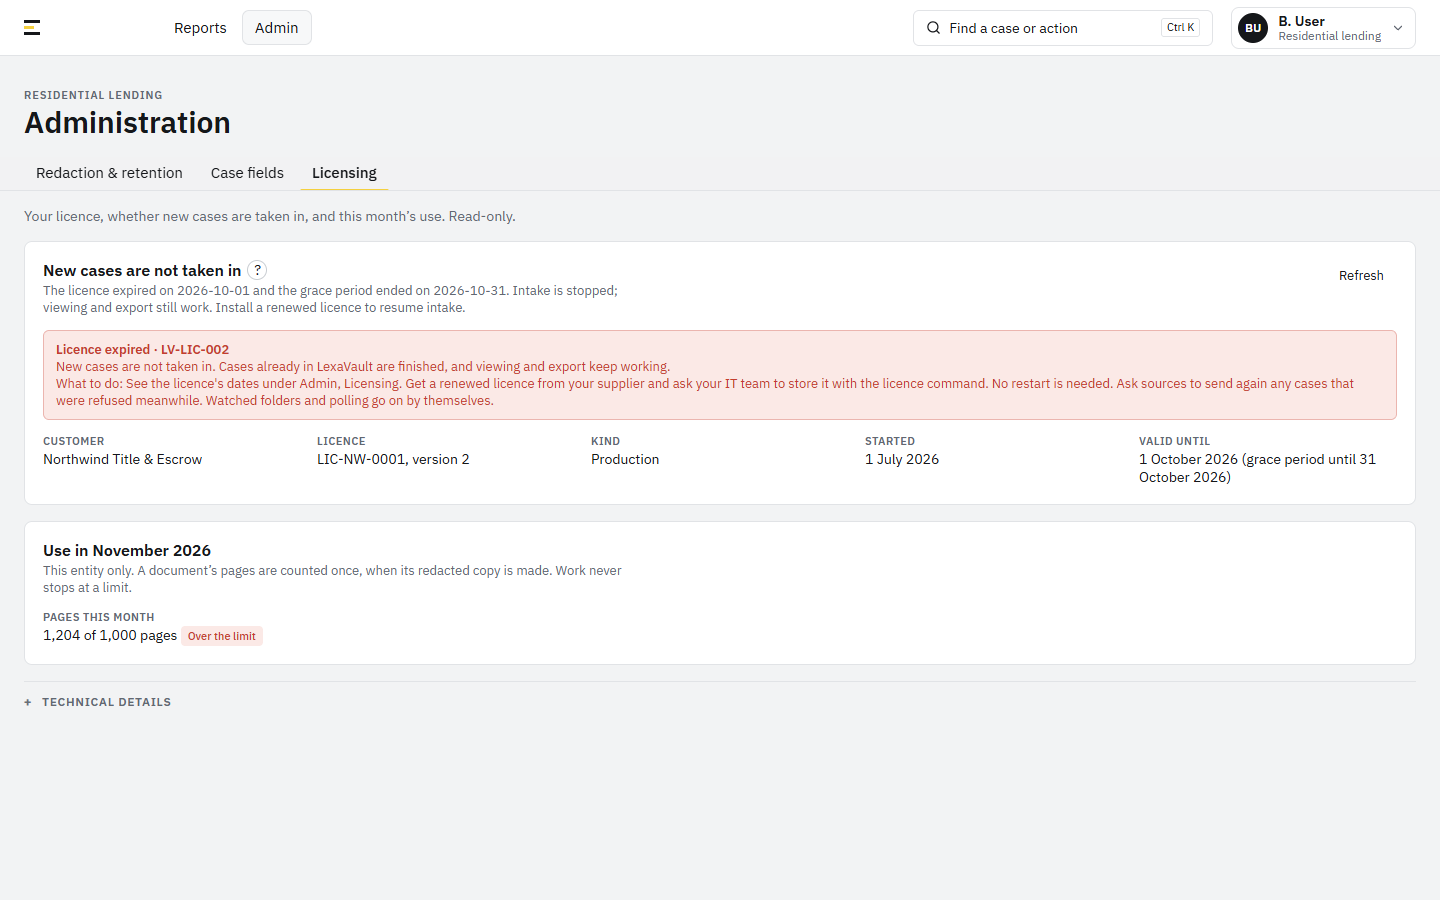
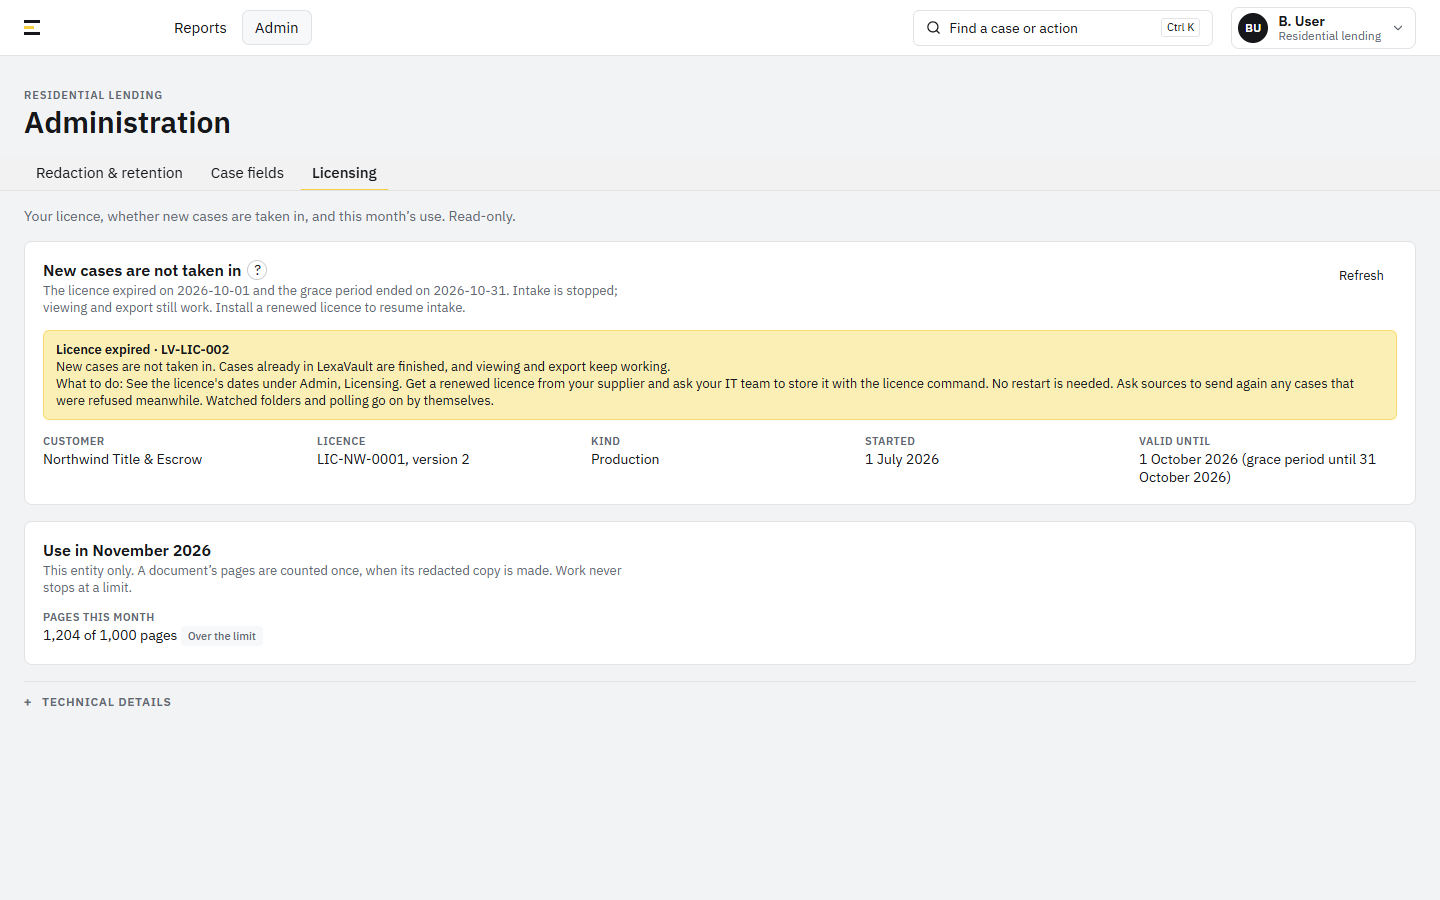
fix(ui,api): the licence notice's contrast; the sign-in test answer compiles with what to do

Changed region(s): [[0.0312, 0.3422, 0.9688, 0.4667], [0.125, 0.6844, 0.1875, 0.7156]]

diff --git a/frontend/securedoc-ui/src/studio/admin/LicensingArea.tsx b/frontend/securedoc-ui/src/studio/admin/LicensingArea.tsx
@@ -6,7 +6,7 @@ import { Notice } from '../atoms';
 import { whatToDo } from '../lvCodes';
 import { Loading } from './shared';
 import { HelpTip } from './HelpTip';
-import { allowanceText, dayText, levelTone, licenceKind, licenceTerm, licenceTitle, monthText } from './licensingRules';
+import { allowanceText, dayText, licenceKind, licenceTerm, licenceTitle, monthText } from './licensingRules';
 
 /**
  * Admin › Licensing (task 0057, Business Admin): the licence in force and this month's use of this entity. Read-only: a
@@ -30,14 +30,14 @@ export default function LicensingArea() {
         </header>
 
         {data.stopped && (
-          <Notice tone="danger">
+          <Notice tone="mark">
             <strong>{data.stopped.title} · {data.stopped.code}</strong>
             <br />New cases are not taken in. Cases already in LexaVault are finished, and viewing and export keep working.
             <br />What to do: {whatToDo(data.stopped.code)}
           </Notice>
         )}
         {l?.testEnvironment && <Notice>Test environment. This licence is not for production use: every redacted copy is marked “TEST – NOT FOR PRODUCTION USE”, and pages are never billed.</Notice>}
-        {l?.clockMessage && <Notice tone="danger">{l.clockMessage}</Notice>}
+        {l?.clockMessage && <Notice tone="mark">{l.clockMessage}</Notice>}
 
         {l && (
           <dl className="cf-ad-facts">
@@ -65,7 +65,7 @@ export default function LicensingArea() {
               return (
                 <div key={a.type}>
                   <dt>{text.name}</dt>
-                  <dd>{text.use} <span className="cf-ad-tag" data-tone={levelTone(a.level)}>{text.level}</span></dd>
+                  <dd>{text.use} <span className="cf-ad-tag">{text.level}</span></dd>
                 </div>
               );
             })}

diff --git a/frontend/securedoc-ui/src/studio/admin/licensingRules.test.ts b/frontend/securedoc-ui/src/studio/admin/licensingRules.test.ts
@@ -1,6 +1,6 @@
 import assert from 'node:assert/strict';
 import test from 'node:test';
-import { allowanceText, dayText, levelTone, licenceKind, licenceTerm, licenceTitle, monthText, type LicenceShown } from './licensingRules.ts';
+import { allowanceText, dayText, licenceKind, licenceTerm, licenceTitle, monthText, type LicenceShown } from './licensingRules.ts';
 
 const base: LicenceShown = { licenceId: 'LIC-1', version: 1, customer: 'C', type: 'SUBSCRIPTION', kind: 'PRODUCTION', testEnvironment: false, state: 'VALID', message: '', startsOn: '2026-01-01', expiresOn: '2026-06-30', daysUntilExpiry: 90, graceEndsOn: '2026-07-30' };
 
@@ -28,6 +28,4 @@ test('the term, its last days and its grace', () => {
 test('use against the licence', () => {
   assert.deepEqual(allowanceText({ type: 'PAGES_PER_MONTH', unit: 'pages', used: 1204, limit: 1000, level: 'OVER_LIMIT' }), { name: 'Pages this month', use: '1,204 of 1,000 pages', level: 'Over the limit' });
   assert.equal(allowanceText({ type: 'PAGES_PER_MONTH', unit: 'pages', used: 3, limit: 0, level: 'OVER_LIMIT' }).level, 'Not in the licence');
-  assert.equal(levelTone('AT_LIMIT'), 'danger');
-  assert.equal(levelTone('WITHIN'), undefined);
 });

diff --git a/frontend/securedoc-ui/src/studio/admin/licensingRules.ts b/frontend/securedoc-ui/src/studio/admin/licensingRules.ts
@@ -88,7 +88,3 @@ function levelWord(level: string, limit: number): string {
     default: return 'Within the limit';
   }
 }
-
-export function levelTone(level: string): string | undefined {
-  return level === 'OVER_LIMIT' || level === 'AT_LIMIT' ? 'danger' : undefined;
-}

diff --git a/backend/securedoc-api/src/main/java/com/securedoc/platform/api/identity/EnterpriseIdentityAdminController.java b/backend/securedoc-api/src/main/java/com/securedoc/platform/api/identity/EnterpriseIdentityAdminController.java
@@ -67,7 +67,7 @@ public class EnterpriseIdentityAdminController {
         LoginConnection active = reads.activeConnection(principal.tenantId().value()).orElse(null);
         if (active == null) {
             return ResponseEntity.ok(new TestAnswer(false, "NO_ACTIVE_CONNECTION",
-                    "No sign-in connection is stored for this entity.", null, null));
+                    "No sign-in connection is stored for this entity.", null, null, null));
         }
         SignInConnectionTest.Result result = tester.run(active);
         var correlation = context.resolveCorrelationId(request);

diff --git a/backend/securedoc-api/src/test/java/com/securedoc/platform/api/identity/SignInConnectionTestTest.java b/backend/securedoc-api/src/test/java/com/securedoc/platform/api/identity/SignInConnectionTestTest.java
@@ -125,6 +125,7 @@ class SignInConnectionTestTest {
         assertEquals(code, result.code());
         assertEquals(reason, result.reason());
         assertFalse(result.message().isBlank());
+        assertFalse(result.whatToDo().isBlank());
         assertFalse(result.message().contains(issuer.issuer().toString()), result.message());
     }
 
